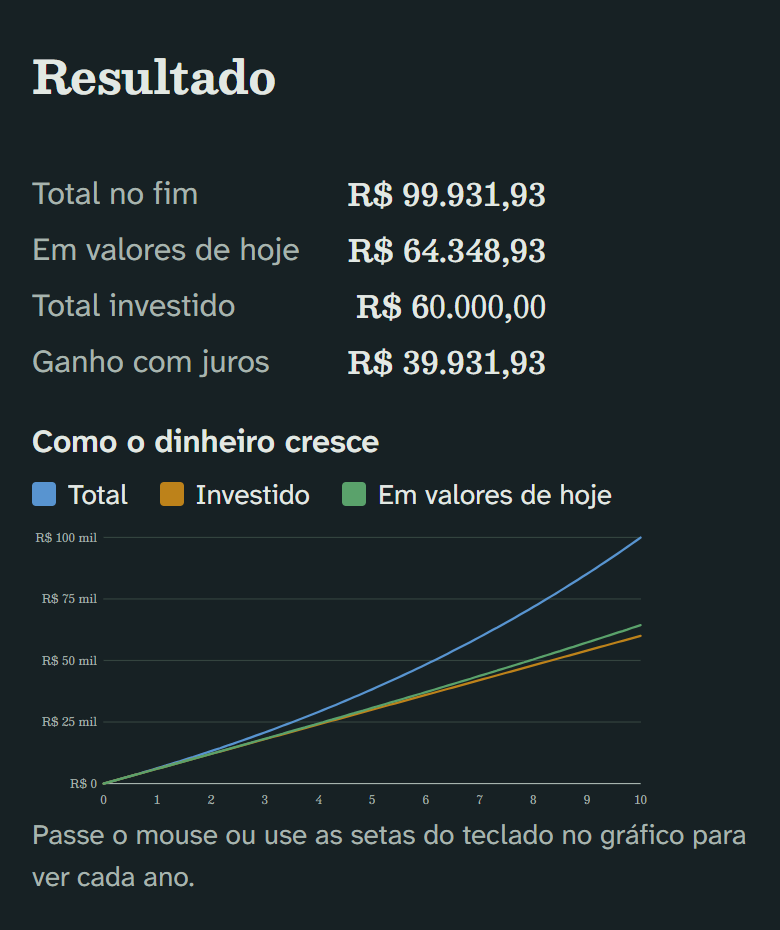
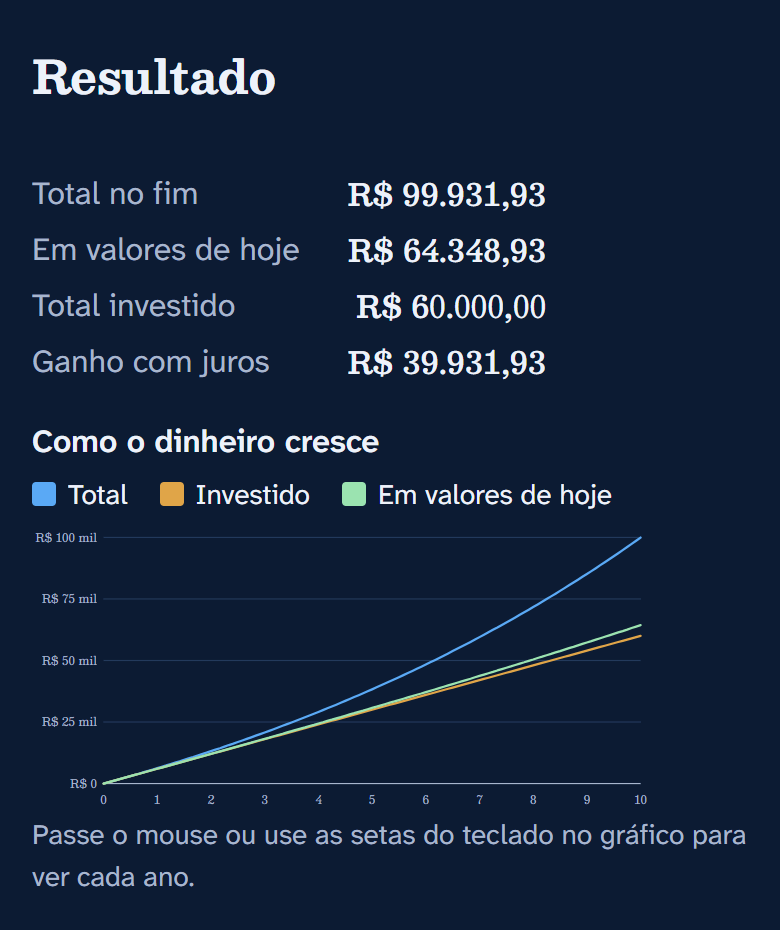
Registra a "Noite azul" na documentação e refaz as capturas do README
As capturas do README e a descrição do visual ainda mostravam o
livro-caixa verde, que foi trocado pela "Noite azul".

- docs/img: as oito capturas refeitas com os dados de exemplo, no mesmo
  enquadramento de antes, nos temas claro e escuro.
- README: direção visual nova, tema escuro como padrão, barra de
  navegação no celular, lista que abre a edição pela linha, barras do
  planejado × realizado e a migração V4. As cores dos selos acompanham
  a paleta nova.
- plano.md: a seção "Noite azul" com as cores, o contraste medido, os
  três ajustes de uso e a verificação (268 testes JUnit, roteiros no
  Chrome, Lighthouse com acessibilidade 100 e CLS 0 nas 6 telas, V4 no
  H2 e no PostgreSQL 18.6, /security-review sem achados).
- entrega-final.md: resumo da troca, e a correção de que as telas sem
  login agora usam o escuro, não o tema do aparelho.

diff --git a/README.md b/README.md
@@ -2,9 +2,9 @@
 
 Controle financeiro pessoal. Você registra os gastos do mês e o app responde três perguntas logo no topo: **quanto gastei, quanto sobra e quanto posso investir**.
 
-![Java 25](https://img.shields.io/badge/Java-25-1b2a33?style=flat-square&logo=openjdk&logoColor=white)
-![Spring Boot 4.1.1](https://img.shields.io/badge/Spring_Boot-4.1.1-17603f?style=flat-square&logo=springboot&logoColor=white)
-![PostgreSQL](https://img.shields.io/badge/PostgreSQL-18-1b2a33?style=flat-square&logo=postgresql&logoColor=white)
+![Java 25](https://img.shields.io/badge/Java-25-0c1b33?style=flat-square&logo=openjdk&logoColor=white)
+![Spring Boot 4.1.1](https://img.shields.io/badge/Spring_Boot-4.1.1-1f4e9c?style=flat-square&logo=springboot&logoColor=white)
+![PostgreSQL](https://img.shields.io/badge/PostgreSQL-18-0c1b33?style=flat-square&logo=postgresql&logoColor=white)
 
 <picture>
   <source media="(prefers-color-scheme: dark)" srcset="docs/img/visao-geral-escuro.png">
@@ -103,15 +103,15 @@ Para voltar ao começo sem perder a conta, use **Ajustes → Recomeçar do zero*
 
 | Tela | O que faz |
 |---|---|
-| **Visão geral** | Mostra quanto gastei, quanto sobra e quanto posso investir. Logo abaixo ficam o lançamento rápido (valor, categoria e salvar, com a data de hoje e as categorias mais usadas primeiro) e as pendências do mês, com o botão "Marcar como pago". |
-| **Lançamentos** | Lista o mês, com busca e filtros por tipo, categoria e situação (pendentes ou pagas). |
+| **Visão geral** | Mostra quanto gastei, quanto sobra e quanto posso investir. Logo abaixo ficam o lançamento rápido (valor, categoria e salvar, com a data de hoje e as categorias mais usadas primeiro), as pendências do mês, com o botão "Marcar como pago", e uma barra por pote dizendo quanto do planejado já foi usado. |
+| **Lançamentos** | Lista o mês, com busca e filtros por tipo, categoria e situação (pendentes ou pagas). Tocar num lançamento abre a edição, onde também dá para apagar. |
 | **Contas fixas e parcelas** | Cada mês já começa com elas lançadas como pendentes, a pagar ou a receber. Mudar uma conta muda os lançamentos ainda não pagos dali em diante. Apagar tira os lançamentos futuros e deixa o histórico. |
 | **Planejamento** | Define a regra que divide a renda em potes. Há quatro prontas: 50/30/20, 70/20/10, 6 potes e "pague-se primeiro" (80/20). Editar os potes cria uma regra sua. Cada categoria fica num pote e pode ter limite mensal. |
 | **Metas** | Calcula a reserva de emergência (quantos meses de custo de vida guardar e quanto falta). Também guarda metas com valor e prazo e diz quanto guardar por mês para chegar lá. |
 | **Investimentos** | Tem o questionário de perfil (as respostas ficam no navegador), a carteira sugerida e um assistente que responde com os seus números, sem IA externa. |
 | **Simulador** | Simula juros compostos com inflação e aumento do aporte a cada ano. Atualiza enquanto você digita e mostra gráfico e tabela ano a ano. |
 | **Histórico** | Mostra entradas × saídas por mês, em gráfico e tabela, e os gastos por categoria. |
-| **Ajustes** | Reúne nome, tema (claro, escuro ou o do aparelho), troca de senha, novo código de recuperação, backup, dados de exemplo, recomeçar do zero e excluir a conta. |
+| **Ajustes** | Reúne nome, tema (escuro, que é o padrão, claro ou o do aparelho), troca de senha, novo código de recuperação, backup, dados de exemplo, recomeçar do zero e excluir a conta. |
 
 Apagar qualquer registro (lançamento, conta fixa, meta, pote ou categoria) mostra **Desfazer** por 10 minutos.
 
@@ -142,12 +142,12 @@ src/main/java/io/github/fabasdev/financas/
   security/     política de senha, limite de tentativas, filtros de sessão
   config/       Spring Security, relógio (fuso America/Sao_Paulo) e cache do JavaScript
 src/main/resources/
-  db/migration/ V1 (tabelas), V2 (regras 50/30/20, 70/20/10, 6 potes e 80/20) e V3 (tema na conta)
+  db/migration/ V1 (tabelas), V2 (regras 50/30/20, 70/20/10, 6 potes e 80/20), V3 (tema na conta) e V4 (escuro como padrão)
   security/     listas de senhas comuns, com a licença
   templates/    HTML das telas (fragments/icons.html: ícones Lucide)
   static/css/   tokens.css (cor, tipografia, espaçamento) e app.css
   static/fonts/ fontes Besley e Atkinson Hyperlegible Next, com as licenças
-  static/js/    melhorias em JavaScript (simulador, questionário, assistente, validação de formulário, menu)
+  static/js/    melhorias em JavaScript (simulador, questionário, assistente, validação de formulário, "Mais" do celular)
 src/test/java/  testes JUnit 5 (perfil test, H2 em memória)
 src/test/js/    testes do JavaScript (node --test)
 legacy-web/     app React antigo (até a importação dos dados ser conferida)
@@ -156,9 +156,9 @@ docs/           plano, entrega final, auditoria, medições do Lighthouse e as c
 
 ### Visual
 
-A direção é a de um **livro-caixa sóbrio**: papel claro, tinta escura, um verde de destaque e vermelho só para valor negativo. Os valores usam a fonte Besley com algarismos tabulares, e o saldo leva o traço duplo da contabilidade. O app segue o tema claro ou escuro do aparelho, ou o escolhido em Ajustes, que fica guardado na conta.
+A direção é a **noite azul**: fundo azul-marinho escuro, texto claro, um azul-céu de destaque e vermelho só para valor negativo. O tema claro (papel frio, tinta azul-marinho e azul-cobalto) e o automático, que segue o aparelho, ficam em Ajustes, guardados na conta. Os valores usam a fonte Besley com algarismos tabulares, e o saldo leva o traço duplo da contabilidade. No celular, a navegação fica numa barra embaixo, perto do polegar: Início, Lançamentos, Metas e "Mais".
 
-Cor, tipografia e espaçamento ficam todos em [`tokens.css`](src/main/resources/static/css/tokens.css), e o resto do CSS só usa esses nomes. O plano de design está em [`docs/plano.md`](docs/plano.md), na parte "Como a Fase 4 ficou".
+Cor, tipografia e espaçamento ficam todos em [`tokens.css`](src/main/resources/static/css/tokens.css), e o resto do CSS só usa esses nomes. O plano de design está em [`docs/plano.md`](docs/plano.md), nas partes "Como a Fase 4 ficou" e "Noite azul".
 
 ## Segurança
 

diff --git a/docs/plano.md b/docs/plano.md
@@ -311,3 +311,16 @@ Você achou que as cores do livro-caixa esverdeado não ficaram boas, preferiu t
 - O enum `Theme` passou a ter `DARK` como padrão (`Theme.DEFAULT`). As telas sem login usam o escuro.
 - "Automático" virou `data-theme="system"`: o `tokens.css` usa o claro só quando o aparelho está no claro.
 - A migração V4 muda o padrão da coluna para `DARK` e passa para `DARK` as contas em `SYSTEM`. Elas só tinham `SYSTEM` porque era o padrão da V3: a escolha de tema é do mesmo dia e o app ainda não estava no ar.
+**Experiência de uso** (os três pontos que você marcou):
+- **Navegação no celular** (`5af7c41`): no lugar do "Menu", uma barra fixa embaixo com Início, Lançamentos, Metas e "Mais". O "Mais" é um `<details>` e funciona sem JavaScript; com JavaScript, Esc e clique fora fecham. A tela atual leva a cor de destaque, negrito e um traço em cima, e o "Mais" fica marcado quando a tela atual está dentro dele. O conteúdo ganha espaço no fim, e o foco do teclado rola para cima da barra (`scroll-padding`). Na tela larga o menu completo continua no topo.
+- **Lista de lançamentos** (`e319d2a`): a linha inteira abre a edição (o link da descrição se estica sobre a linha, com uma seta à direita), e o botão de pago/a pagar fica por cima dele. "Apagar este lançamento" foi para a tela de edição, separado do "Salvar", com desfazer. Os filtros ficam num `<details>` recolhido, que já vem aberto quando algum filtro está em uso.
+- **Planejado × realizado** (`9c07a47`): uma barra por pote e o texto "121% do planejado". Passou do plano: barra vermelha, ícone e "acima do plano", menos no pote de futuro. A conta é feita no servidor em `BigDecimal` (`BucketSummary.usedPercent`, `barWidth`, `overPlan`). A barra é SVG com a largura num atributo, porque a CSP não aceita `style` inline, e fica escondida do leitor de tela, já que o texto diz tudo.
+- Sem renda no mês, nada é planejado. Antes, um pote com gasto mostrava "acima do plano" com a barra vazia; agora a barra fica cheia, coerente com o aviso.
+**Verificação (14/10/2026):**
+- `./mvnw test`: 268 testes JUnit, todos passando (eram 256). Novos: `NavigationTest`, `TransactionListTest`, testes de unidade da barra em `CalculationUnitTest`, a lista de potes em `PagesRenderTest` e o `ThemeTest` refeito para o escuro padrão. Os 35 testes de JavaScript continuam passando.
+- V4 testada no H2 (conta criada pelo jar antigo, em `SYSTEM`, virou `DARK` ao subir o novo) e no PostgreSQL 18.6 (a coluna passou a ter `'DARK'` como padrão).
+- Roteiros no Chrome, contra o jar final: o do plano (15 verificações, agora abrindo a edição pela linha e apagando dentro dela), o das funções novas adaptado ao escuro padrão (29), as 17 telas com dados de exemplo e um roteiro da lista no celular (11: tocar no valor abre a edição certa, o botão de pago não abre a edição, apagar e desfazer, foco do teclado contornando a linha). Sem erro de console, de CSP ou de rede.
+- Lighthouse 13.5.0 (celular, 3 execuções por tela, tema escuro): desempenho 99 a 100, acessibilidade 100 e CLS 0 nas 6 telas medidas (login, visão geral, lançamentos, simulador, investimentos e histórico). O peso da visão geral subiu de 102 para 111 KiB (barra de navegação, ícones e barras dos potes). Uma das 3 execuções da visão geral falhou por erro do próprio Lighthouse (NO_NAVSTART).
+- As capturas do README (`docs/img`) foram refeitas com o mesmo enquadramento, nos dois temas.
+- `/security-review` sem achados.
+- Testado só no Chrome.

diff --git a/docs/entrega-final.md b/docs/entrega-final.md
@@ -33,7 +33,7 @@ O app novo agora faz tudo o que o antigo fazia: as três funções que faltavam 
 - Tudo funciona sem JavaScript.
 
 **Fase 4: visual** (`3c6e228` a `5b6dee3`)
-- Direção "livro-caixa sóbrio": Besley nos valores, Atkinson Hyperlegible Next no texto, ícones do Lucide e tema escuro pelos mesmos tokens.
+- Direção "livro-caixa sóbrio": Besley nos valores, Atkinson Hyperlegible Next no texto, ícones do Lucide e tema escuro pelos mesmos tokens. As cores foram trocadas depois pela "Noite azul" (ver "Noite azul" no fim deste arquivo).
 - Acessibilidade 100 no Lighthouse nas 18 telas testadas. `/security-review` sem achados.
 
 **Fase 5: desempenho** (`7bbb74e` a `604bdca`)
@@ -62,7 +62,7 @@ Na primeira versão deste relatório, o app novo ainda não fazia três coisas q
 
 Detalhes:
 - **Exportar:** a senha do arquivo segue a regra da senha da conta, porque quem pegar o arquivo pode tentar adivinhá-la no próprio computador. A Privacidade passou a citar a portabilidade (LGPD, art. 18, V). Só existe o formato criptografado; uma planilha (CSV) pode vir depois, se você quiser.
-- **Tema:** fica na conta, não num cookie, porque o "Sair" apaga os cookies do site e a Privacidade promete um cookie só. As telas de entrar e de cadastro seguem o aparelho. Se você trocar o tema num aparelho, outro aparelho já logado só muda quando entrar de novo.
+- **Tema:** fica na conta, não num cookie, porque o "Sair" apaga os cookies do site e a Privacidade promete um cookie só. As telas de entrar e de cadastro usam o escuro, que virou o padrão com a "Noite azul". Se você trocar o tema num aparelho, outro aparelho já logado só muda quando entrar de novo.
 
 **Verificação das três funções:**
 - `./mvnw verify`: 244 testes JUnit, BUILD SUCCESS. Os novos cobrem:
@@ -189,3 +189,16 @@ Nesta ordem:
 - `favicon.svg` e `robots.txt` ficam 1 ano no cache sem versão no nome. Se um deles mudar, troque o nome do arquivo.
 - SEO 54 nas telas medidas, de propósito: o `robots.txt` bloqueia buscadores. Também falta `meta description`.
 - Testado só no Chrome e em `localhost`. Safari e Firefox não foram testados.
+
+## Noite azul (14/10/2026)
+
+Você achou que as cores não ficaram boas e preferiu tons de azul mais escuro. Entre três paletas aplicadas nas telas de verdade, escolheu a "Noite azul". Também marcou três pontos da experiência para arrumar. Detalhes e decisões em `docs/plano.md`, seção "Noite azul".
+
+| O quê | Como ficou | Commit |
+|---|---|---|
+| Cores | Fundo azul-marinho escuro como padrão, texto claro e destaque azul-céu. O claro (papel frio, tinta azul-marinho, azul-cobalto) e o automático ficam em Ajustes. A migração V4 passa para o escuro as contas que estavam no automático. | `ab82586` |
+| Navegação no celular | Barra fixa embaixo com Início, Lançamentos, Metas e "Mais", no lugar do botão "Menu". | `5af7c41` |
+| Lista de lançamentos | Tocar na linha abre a edição; "Apagar" foi para dentro dela, com desfazer. Filtros recolhidos até serem usados. | `e319d2a` |
+| Planejado × realizado | Uma barra por pote, com "121% do planejado" escrito ao lado e aviso quando passa do plano. | `9c07a47` |
+
+Quando você reiniciar o app, a V4 roda no seu banco em `./data` e a sua conta passa a abrir no escuro.
